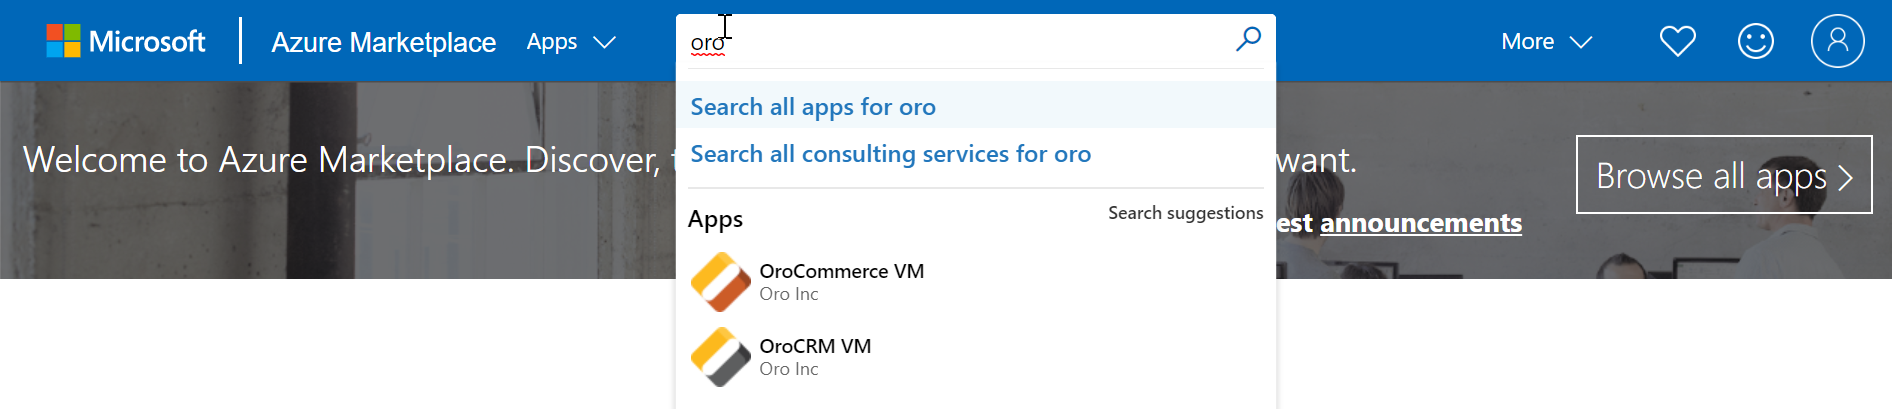
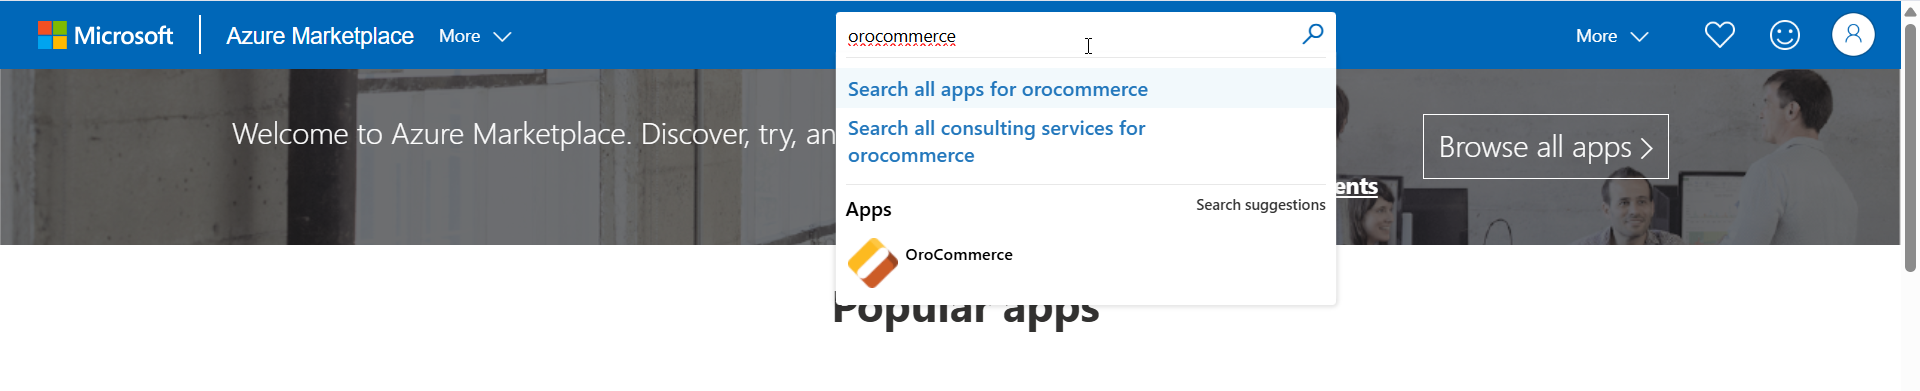
DOC-2369: Update demo documentation to remove CRM and Platform references (m) (#41079)
* DOC-2369: Update demo documentation to remove CRM and Platform references (WIP)

Changed region(s): [[0.0, 0.0, 1.0, 0.7673], [0.343, 0.7673, 0.5925, 0.9514], [0.7796, 0.0614, 0.842, 0.1228]]

diff --git a/backend/setup/demo-environment/azure.rst b/backend/setup/demo-environment/azure.rst
@@ -3,7 +3,7 @@
 Azure Cloud Platform
 ====================
 
-Azure Marketplace enables you to deploy pre-configured demo instances of the latest LTS releases of OroCRM and OroCommerce Community Editions with or without demo data.
+Azure Marketplace enables you to deploy pre-configured demo instances of the latest LTS releases of OroCommerce Community Edition with demo data.
 
 To proceed with the installation, make sure you have registered with Azure marketplace and have a valid |Azure portal account|.
 
@@ -12,17 +12,13 @@ Deploy the Solution
 
 To deploy the solution, follow the steps below:
 
-1. Navigate to |Azure Marketplace| and search for the required Oro application (OroCRM VM or OroCommerce VM) in the search bar.
+1. Navigate to |Azure Marketplace| and search for OroCommerce VM in the search bar.
 
    .. image:: /img/backend/setup/azure/search.png
       :alt: OroCRM VM or OroCommerce VM in Azure Marketplace search dropdown
 
 2. Once you select the application type to deploy, click **GET IT NOW** under the application logo on your left.
-3. In the pop-up dialog, select the software plan -- an instance with or without demo data. The application with demo data provides all the necessary information for you to test the application, such as a preconfigured list of customers, products, submitted orders, quotes, the structured master, and web catalogs.
-
-   .. image:: /img/backend/setup/azure/software-plan.png
-      :alt: Select the software plan pop-up dialog
-
+3. In the pop-up dialog, select the software plan with demo data. This provides all the necessary information for you to test the application, such as a preconfigured list of customers, products, submitted orders, quotes, the structured master, and web catalogs.
 4. Click **Continue**.
 
    You are redirected to Azure Portal to complete the installation.
@@ -32,8 +28,8 @@ To deploy the solution, follow the steps below:
 
 6. Click **Create**.
 
-   .. image:: /img/backend/setup/azure/create-vm.png
-      :alt: Create a virtual machine of the selected type
+   .. image:: /img/backend/setup/azure/software-plan.png
+      :alt: Select the software plan pop-up dialog
 
 7. Complete the required fields in the **Basics** tab:
 
@@ -91,14 +87,12 @@ To deploy the solution, follow the steps below:
 
     .. important::
 
-                   **OroCRM VM Demo Data**: If you have deployed OroCRM VM with demo data, use **admin** as login and the password to access the back-office of the application. To access the application via SSH, specify your username and password/public key, and restart services (`systemctl restart oro*`).
-
-                   **OroCommerce VM Demo Data**: If you have deployed OroCommerce VM with demo data, use *AmandaRCole@example.org* both as your login and password to access the storefront (`http://<DNSprefix>.cloudapp.azure.com`). To access the back-office of the application (`http://<DNSprefix>.cloudapp.azure.com/admin/admin`), use *admin* as login and password. To access the application via SSH, specify your username and password or a public key, and restart services (`systemctl restart oro*`).
+                   **OroCommerce VM Demo Data**: Use *AmandaRCole@example.org* both as your login and password to access the storefront (`http://<DNSprefix>.cloudapp.azure.com`). To access the back-office of the application (`http://<DNSprefix>.cloudapp.azure.com/admin/admin`), use *admin* as login and password. To access the application via SSH, specify your username and password or a public key, and restart services (`systemctl restart oro*`).
 
 Configure Application URL
 -------------------------
 
-For the demo applications to work correctly, you need to configure the application URL (for OroCRM and OroCommerce), and Secure URL and URL (for OroCommerce).
+For the demo application to work correctly, you need to configure the application URL, Secure URL, and URL.
 
 1. Navigate to **System Configuration > General Setup > Application Settings** in the application back-office, and provide the *Application URL* (e.g., `http://<DNSprefix>.cloudapp.azure.com`, or a different domain).
 

diff --git a/backend/setup/demo-environment/docker.rst b/backend/setup/demo-environment/docker.rst
@@ -55,13 +55,6 @@ Run Application
       docker compose up application
 
    The docker compose will download the required images, create networks and run containers. Application `commerce-crm-application` is used by default.
-   You can run other community applications, such as `crm-application`, `platform-application` or `commerce-crm-application-de`.
-   To select another application, set a different image in the `.env` file, for example:
-
-   .. code-block:: none
-
-      ORO_IMAGE=docker.io/oroinc/crm-application
-
 
    If you want to get the application in a different locale, add the contents of the file `.env-locale-de_DE` or `.env-locale-fr_FR` to `.env` and restart the restore service and application.
 
@@ -101,16 +94,9 @@ If you deployed the application before, pull up fresh images with `docker-compos
 About This Project
 ------------------
 
-This repository provides a Docker Compose configuration file (compose.yaml) and demonstrates how to run different applications and required services in containers.Oro Inc. provides images with applications Community Edition in public Docker Hub.
+This repository provides a Docker Compose configuration file (compose.yaml) and demonstrates how to run different applications and required services in containers. Oro Inc. provides images with applications Community Edition in public Docker Hub.
 
 .. important:: This deployment is NOT intended for a production environment.
-
-**Docker images with different applications:**
-
-* OroCommerce Community Edition: |docker.io/oroinc/commerce-crm-application|
-* OroCRM Community Edition: |docker.io/oroinc/crm-application|
-* OroPlatform Community Edition: |docker.io/oroinc/platform-application|
-* OroCommerce Community Edition for Germany: |docker.io/oroinc/commerce-crm-application-de|
 
 One image is used to run containers in several roles: web server, php-fpm, consumer, WebSocket server, and cron service.
 All these services must be running, and the PostgreSQL database must be prepared for a full-fledged application.
